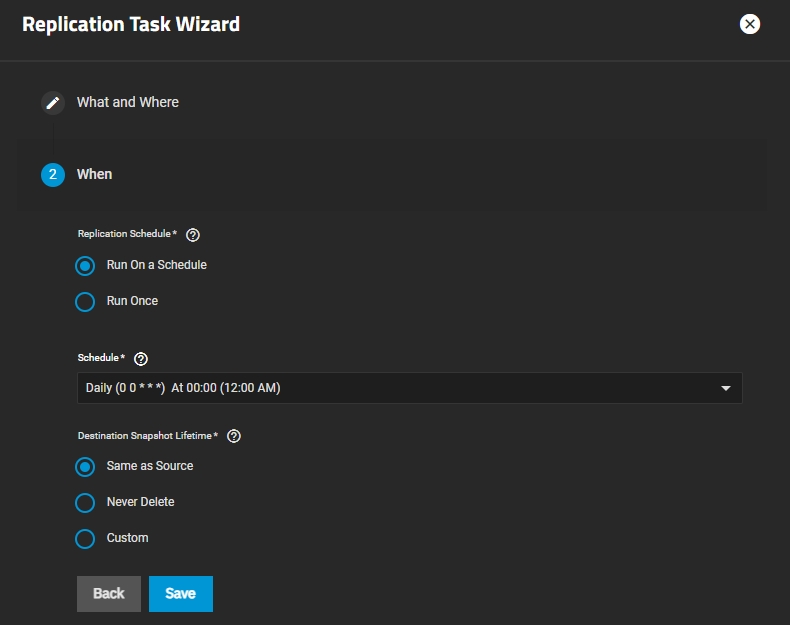
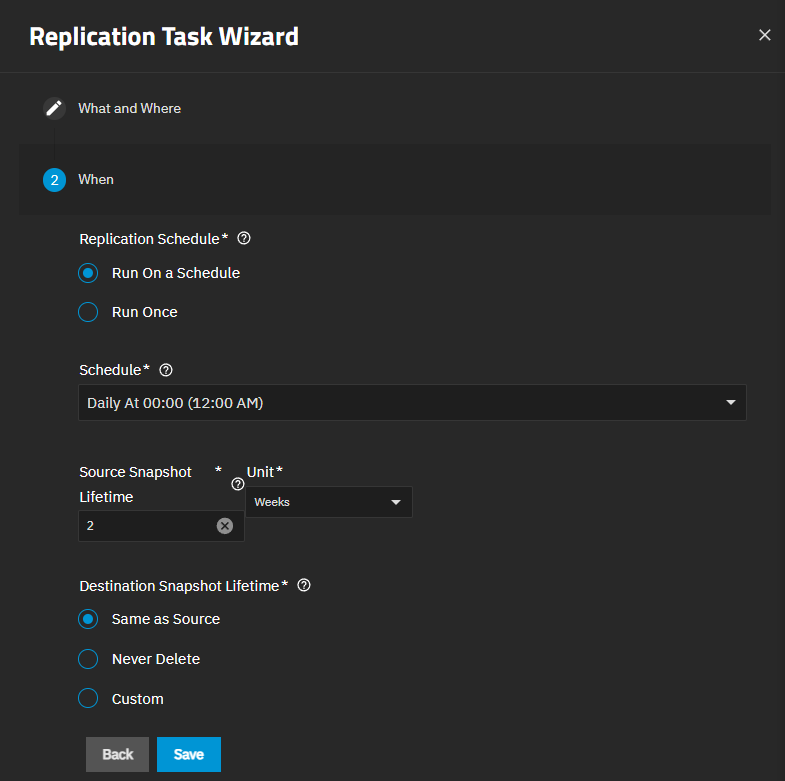
DOCS-2569 / 26 / Docs 2569 add source snapshot lifetime content (by micjohnson777) (#4605)
* DOCS-2569 Add Source Snapshot Lifetime Content

This PR adds information on the new Source Snapshot Lifetime setting found on the Replication Wizard When screen to the ReplicationScreens.md and ReplicationScheduleAndRetentionSteps.md snippet file.

(cherry picked from commit 8a2160b1c8434f9198f5ad2096a2b22f65bbb120)

* DOCS-2569 Updates to the Snapshot Lifetimes Section

This commit makes style changes to the content in the Snapshot Lifetimes section of the ReplicationScreens.md article.

(cherry picked from commit c49ee2fa88393558815b1bee945cbbe97e37069a)

---------

Pull request: DOCS-2569 / 26 / Docs 2569 add source snapshot lifetime content (by micjohnson777)
This PR adds information on the Source Snapshot Lifetime setting to the ReplicationScreens.md article and the ReplicationScheduleAndRetentionSteps.md snippet used in the replication tutorials.

This PR backports to the 26 branch.

Thanks for contributing to TrueNAS documentation! By opening a Pull Request, you're acknowledging that your changes will be distributed under the [Creative Commons 4.0](https://creativecommons.org/licenses/by-nc-sa/4.0/) license.


Original PR: https://github.com/truenas/documentation/pull/4603
Jira URL: https://ixsystemsinc.atlassian.net/browse/DOCS-2569

diff --git a/content/DataProtection/Replication/ReplicationScreens.md b/content/DataProtection/Replication/ReplicationScreens.md
@@ -221,7 +221,7 @@ It allows you to set up a new SSH connection for the remote system.
 
 ### When Wizard Screen
 
-The **When** wizard screen sets the schedule for running the task and the retention period for keeping the replicated snapshots.
+The **When** wizard screen sets the schedule for running the task and the retention period for keeping replicated snapshots.
 **Replication Schedule** and **Destination Snapshot Lifetime** options change the setting displayed on the screen.
 
 #### Replication Schedule Options
@@ -241,26 +241,27 @@ The **Replication Schedule** options set when to run the task based on the sched
 {{< /truetable >}}
 {{< /expand >}}
 
-#### Destination Snapshot Lifetime Options
-
-The **Destination Snapshot Lifetime** setting determines how long the replicated snapshot is retained on the destination server.  
+#### Snapshot Lifetimes
 
 {{< hint type=note title="Snapshot Preservation" >}}
 TrueNAS always preserves the latest snapshot so replication can resume later.
 If you delete a dataset or zvol on the source, you must manually delete the replicated dataset or zvol and the most recent snapshot on the destination.
 {{< /hint >}}
 
-{{< trueimage src="/images/SCALE/DataProtection/AddReplicationTaskWhenRunOnceCustomLifetime.png" alt="Add Replication Task When Custom Lifetime" id="Add Replication Task When Custom Lifetime" >}}
+**Source Snapshot Lifetime** specifies how long TrueNAS retains a source snapshot before TrueNAS deleteds it. The default lifetime is two weeks.
+**Unit** sets the time measure, such as hours, days, weeks, etc. The digit entered in the other time field sets the number of units.
+
+**Destination Snapshot Lifetime** specifies how long TrueNAS retains a replicated snapshot in the dataset on the destination server.  
 
 {{< expand "Destination Snapshot Lifetime Settings" "v" >}}
 {{< truetable >}}
 | Setting | Description |
 |---------|-------------|
-| **Same as Source** | Select to use the configured snapshot Lifetime value from the source dataset periodic snapshot task. |
-| **Never Delete** | Select to never delete snapshots from the destination system. |
-| **Custom** | Select to define how long the snapshot remains on the destination system. Displays the number of and measure of time fields to set the schedule. |
-| Number of | Enter a numeric value to work with the measure of time selection to set the custom lifetime of the snapshot. |
-| Measure of time | Select the option for **Hours**, **Days**, **Weeks**, **Months**, or **Years** to work with the number-of field to set the custom lifetime of the snapshot. |
+| **Same as Source** | Uses the configured snapshot lifetime value from the source dataset periodic snapshot task. |
+| **Never Delete** | Never deletes snapshots from the destination system. |
+| **Custom** | Defines how long the snapshot remains on the destination system. Shows the number-of and measure-of-time fields to set the schedule. |
+| Number-of | Enter a numeric value to work with the measure of time selection to set the custom lifetime of the snapshot. |
+| Measure-of-time | Select the option for **Hours**, **Days**, **Weeks**, **Months**, or **Years** to work with the number-of field to set the custom lifetime of the snapshot. |
 {{< /truetable >}}
 {{< /expand >}}
 

diff --git a/static/includes/ReplicationScheduleAndRetentionSteps.md b/static/includes/ReplicationScheduleAndRetentionSteps.md
@@ -7,10 +7,14 @@
   
    {{< trueimage src="/images/SCALE/DataProtection/CreateReplicationTaskSetSchedule.png" alt="Set Replication Task Schedule" id="Set Replication Task Schedule" >}}
 
-8. Select the **Destination Snapshot Lifetime** option to specify how long TrueNAS should store copied snapshots in the destination dataset before TrueNAS deletes it.
+8. Select the destination and source snapshot retention options.
+   The **Destination Snapshot Lifetime** option specifies how long TrueNAS should store copied snapshots in the destination dataset before TrueNAS deletes it.
    **Same as Source** is selected by default.
    Select **Never Delete** to keep all snapshots until you delete them manually.
    Select **Custom** to show two additional settings, then enter the number of the duration you select from the dropdown list. For example, *2 Weeks*.
+
+   The **Source Snapshot Lifetime** sets how long Truenas should store snapshots on the source system before TrueNAS deletes it.
+   Set the duration and select the unit of time. The default retention period is two weeks.
   
 9. Click **Save**.
 